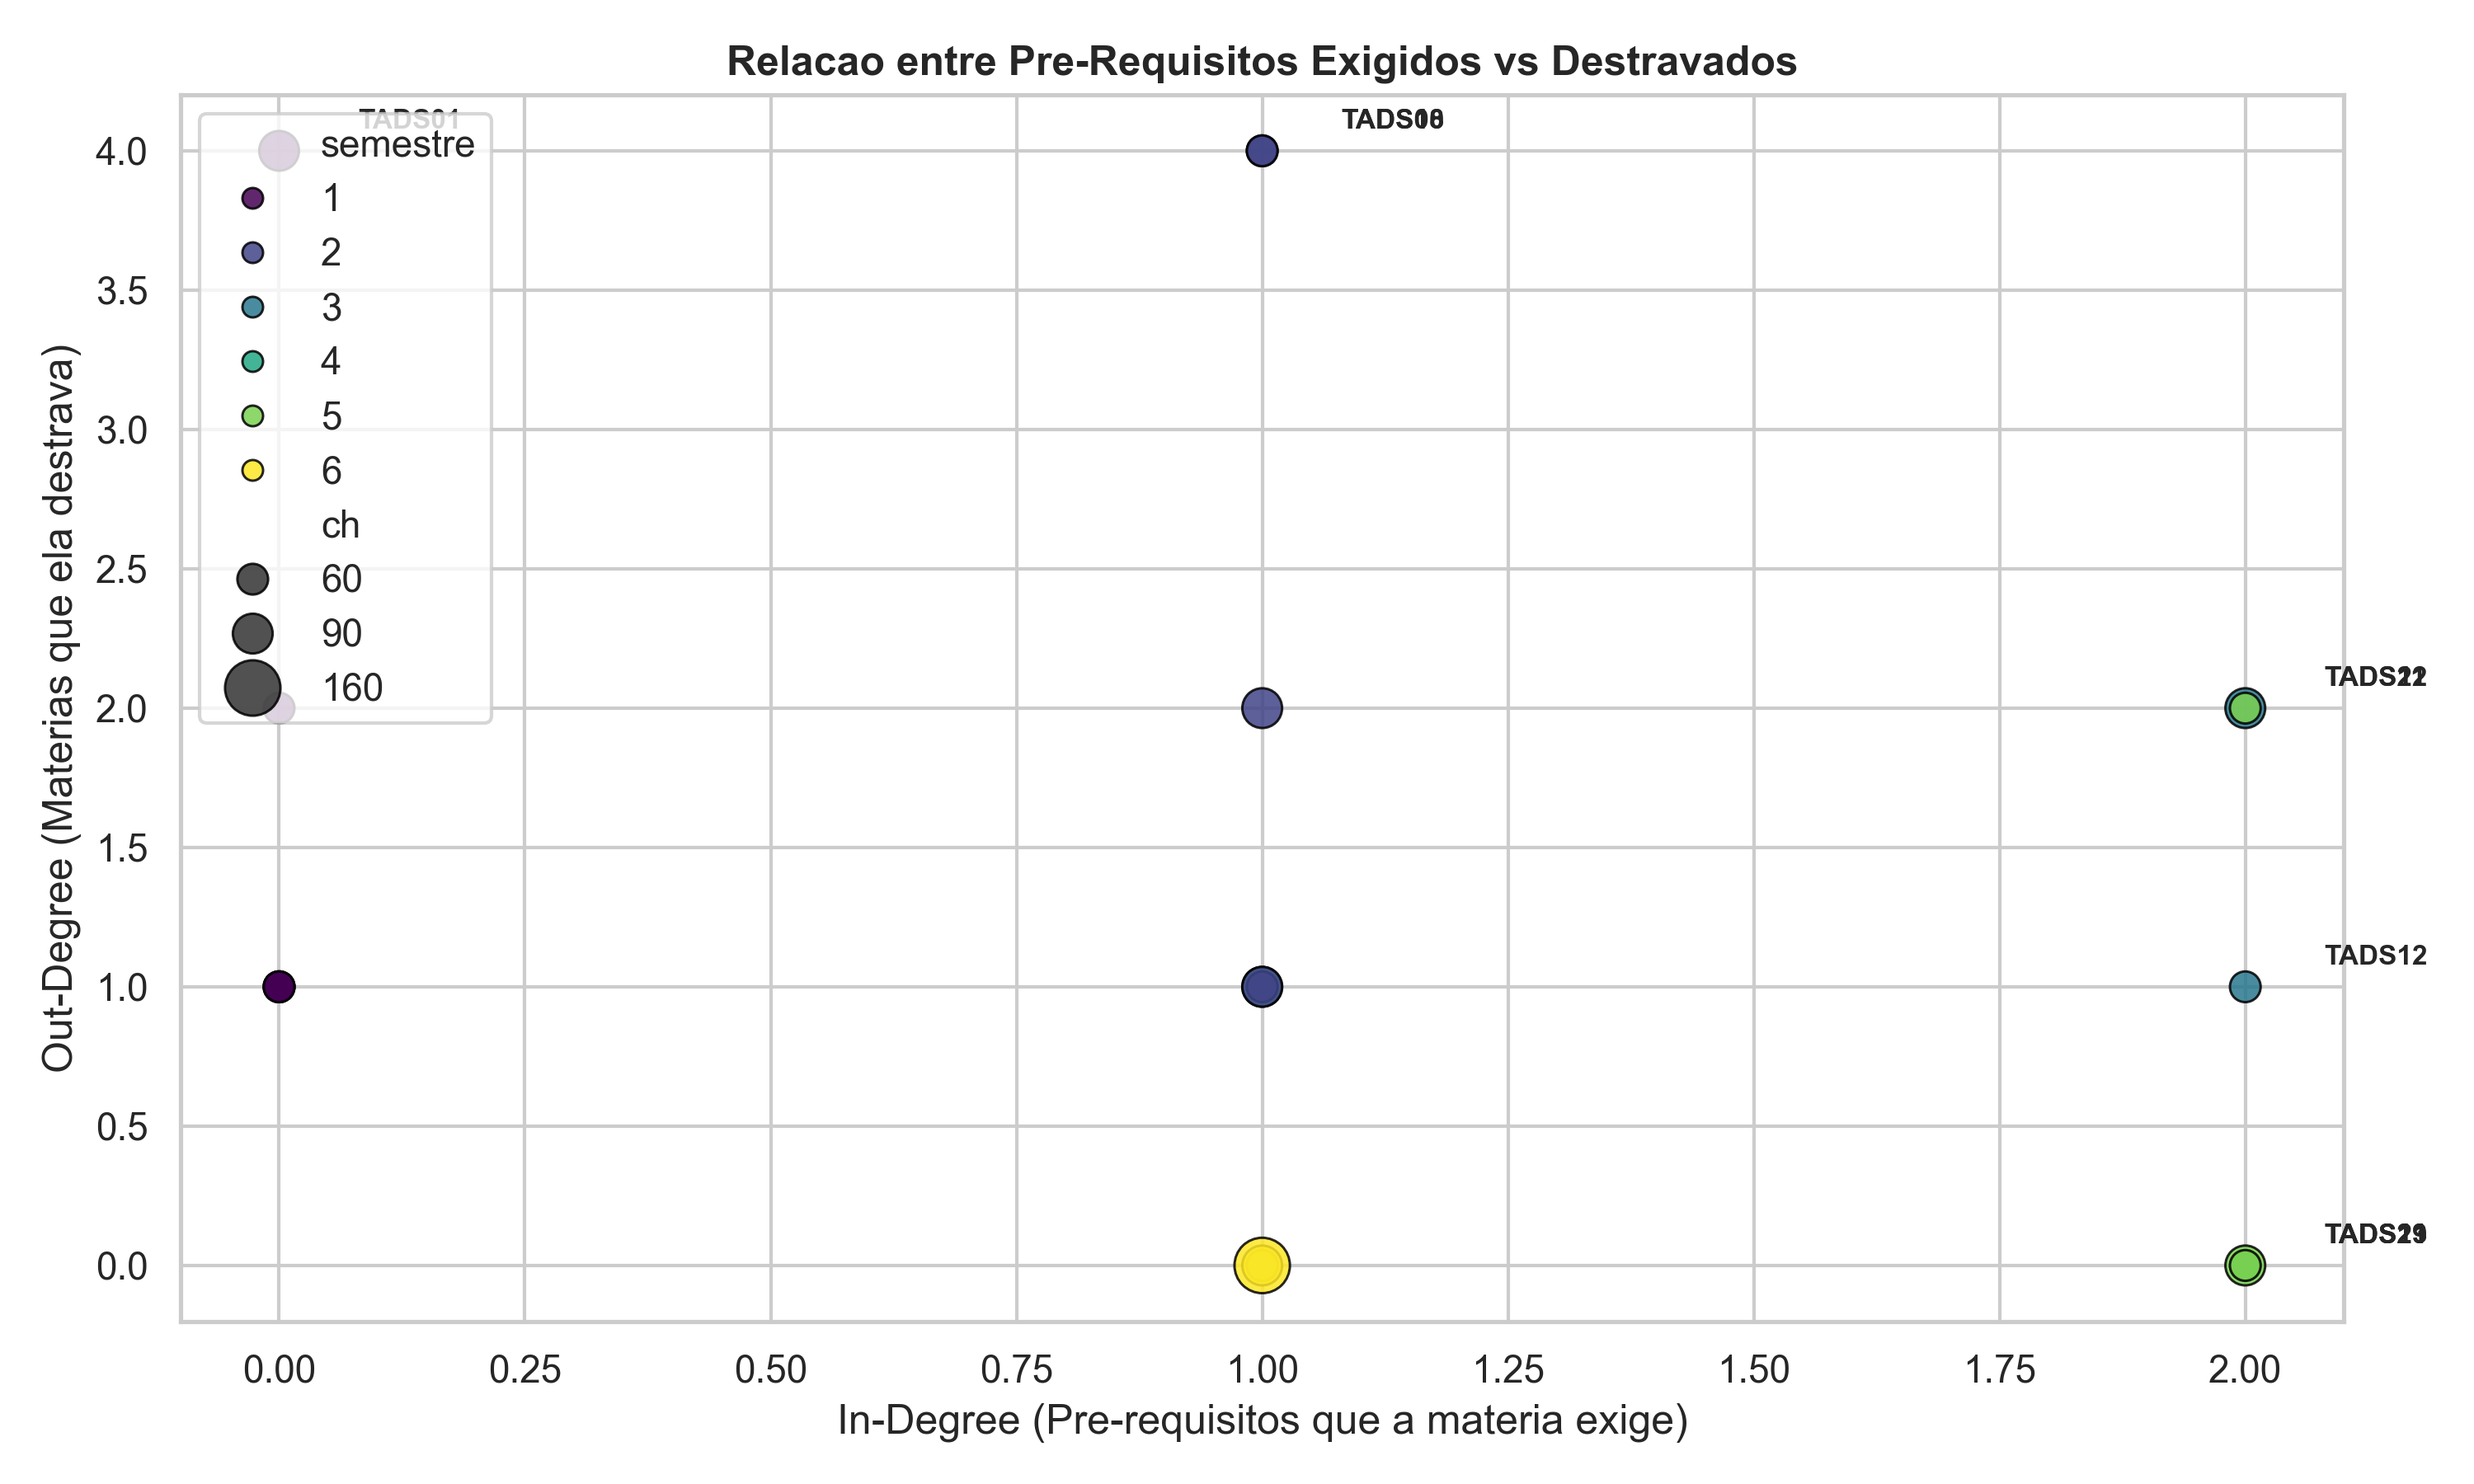
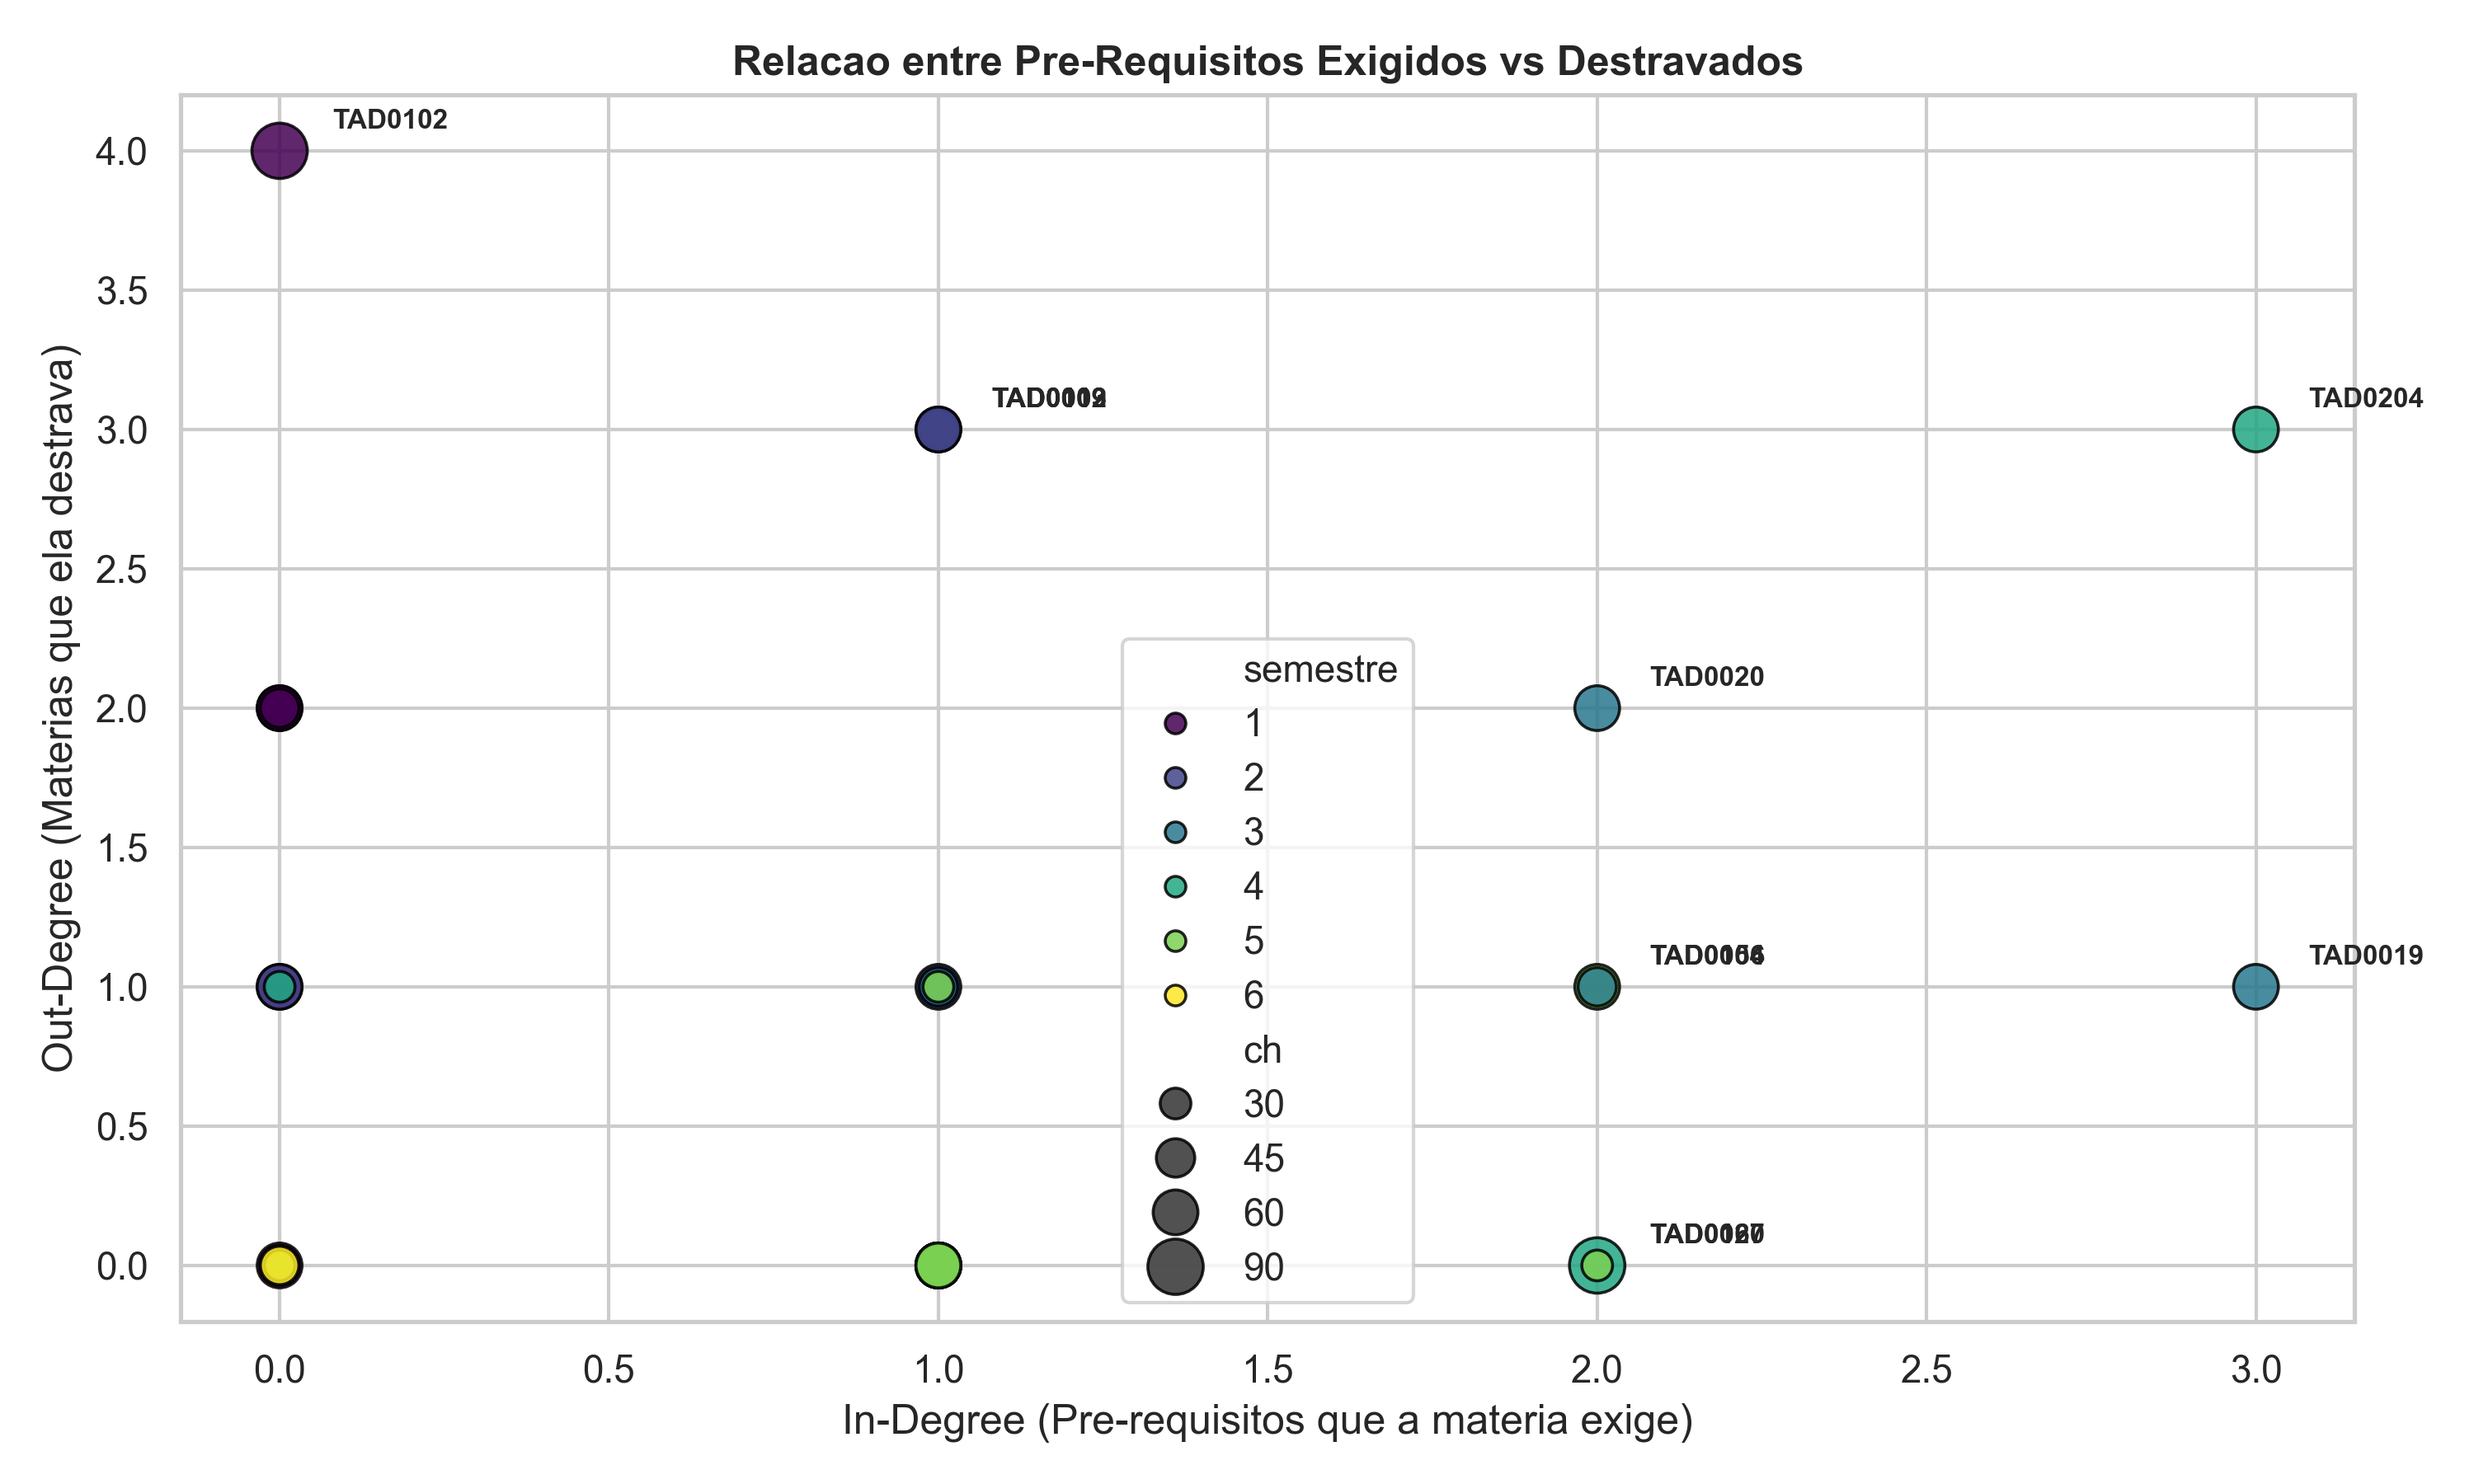
feat(data): matriz curricular oficial ementa TADS EAJ 2019.2 (Macaiba)

diff --git a/tests/test_metrics.py b/tests/test_metrics.py
@@ -35,8 +35,8 @@ class TestGraphMetrics(unittest.TestCase):
         self.assertIn("in_degree", df.columns)
         self.assertIn("out_degree", df.columns)
 
-        # TADS01 (Algoritmos) deve ser um dos maiores provedores de pré-requisitos
-        row_tads01 = df[df["codigo"] == "TADS01"].iloc[0]
+        # TAD0102 (Algoritmos e Programacao) deve ser um dos maiores provedores de pre-requisitos
+        row_tads01 = df[df["codigo"] == "TAD0102"].iloc[0]
         self.assertGreaterEqual(row_tads01["out_degree"], 3)
 
     def test_critical_path_detection(self):
@@ -45,20 +45,20 @@ class TestGraphMetrics(unittest.TestCase):
         self.assertGreater(len(critical), 0)
         length, path = critical[0]
         self.assertGreaterEqual(length, 4)
-        self.assertEqual(path[0], "TADS01")  # O caminho mais longo parte de Algoritmos
+        self.assertEqual(path[0], "TAD0102")  # O caminho mais longo parte de Algoritmos
 
     def test_k_hop_traversal(self):
         """Valida a simulação de travessias de múltiplos saltos."""
-        successors = get_k_hop_successors(self.G, "TADS01", k=3)
+        successors = get_k_hop_successors(self.G, "TAD0102", k=3)
 
         self.assertIn(1, successors)
         self.assertIn(2, successors)
         self.assertIn(3, successors)
         # Algoritmos tem pré-requisitos diretos no salto 1
-        self.assertIn("TADS06", successors[1])
-        self.assertIn("TADS07", successors[1])
-        # No salto 2, deve alcançar Web I via POO ou Banco de Dados
-        self.assertIn("TADS11", successors[2])
+        self.assertIn("TAD0009", successors[1])
+        self.assertIn("TAD0020", successors[1])
+        # No salto 2, deve alcançar FCD via Banco de Dados ou Estruturas de Dados
+        self.assertIn("TAD0204", successors[2])
 
 
 if __name__ == "__main__":

diff --git a/tests/test_dataset.py b/tests/test_dataset.py
@@ -28,9 +28,10 @@ class TestDatasetIntegrity(unittest.TestCase):
         self.assertTrue((df["ch"] > 0).all())
         # Semestres entre 1 e 6
         self.assertTrue(df["semestre"].between(1, 6).all())
-        # Deve conter componentes obrigatórios essenciais
-        self.assertIn("TADS01", df["codigo"].values)
-        self.assertIn("TADS08", df["codigo"].values)
+        # Deve conter componentes obrigatorios essenciais com codigos oficiais
+        self.assertIn("TAD0102", df["codigo"].values)
+        self.assertIn("TAD0103", df["codigo"].values)
+        self.assertIn("TAD0204", df["codigo"].values)
 
     def test_processed_prerequisitos_referential_integrity(self):
         """Valida ausência de arestas órfãs e ausência de autorrelacionamento."""

diff --git a/README.md b/README.md
@@ -162,13 +162,13 @@ python src/visualization/plot_graph.py
 ## 7. Resultados Analíticos da Validação
 
 1. **Análise Explícita (Cypher):**
-   - A consulta direta de pré-requisitos para *Algoritmos e Lógica de Programação* (TADS01) foi processada em latência inferior a 3 milissegundos.
-   - A travessia de múltiplos saltos (`*1..3`) recuperou com precisão todas as disciplinas da cadeia formativa de desenvolvimento sem a necessidade de recursão manual.
+   - A consulta direta de pré-requisitos para *Algoritmos e Programação* (TAD0102) foi processada em latência inferior a 3 milissegundos.
+   - A travessia de múltiplos saltos (`*1..3`) recuperou com precisão todas as disciplinas da cadeia formativa de desenvolvimento e dados sem a necessidade de recursão manual.
 2. **Análise Implícita (NetworkX):**
-   - **Centralidade de Intermediação (*Betweenness Centrality*):** As disciplinas *Desenvolvimento Web I* (TADS11) e *Projeto Integrador I* (TADS22) apresentaram os maiores coeficientes da rede ($0.0167$), atuando como pontes estruturantes indispensáveis para o avanço dos períodos formativos.
-   - **Grau de Saída (*Out-Degree*):** *Algoritmos e Lógica de Programação* (TADS01) e *Bancos de Dados* (TADS08) são os maiores provedores de dependências, destravando diretamente 4 componentes cada.
-   - **Caminho Crítico de Formatura:** O caminho de maior extensão em saltos no DAG curricular abrange uma sequência ininterrupta de 5 períodos:
-     $$\text{Algoritmos} \rightarrow \text{POO} \rightarrow \text{Desenvolvimento Web I} \rightarrow \text{Desenvolvimento Web II} \rightarrow \text{Dispositivos Móveis}$$
+   - **Centralidade de Intermediação (*Betweenness Centrality*):** A própria disciplina ministrada pelo docente, *Fundamentos e Técnicas em Ciência de Dados* (TAD0204), desponta como o principal nó estruturante e gargalo de intermediação da rede ($0.0128$), seguida por *Estruturas de Dados* (TAD0020) e *Projetos Aplicados I* (TAD0156).
+   - **Grau de Saída (*Out-Degree*):** *Algoritmos e Programação* (TAD0102) lidera como a maior provedora de pré-requisitos do curso (4 dependências diretas), seguida por *Processo de Desenvolvimento de Software* (TAD0012) e *Fundamentos e Técnicas em Ciência de Dados* (TAD0204).
+   - **Caminho Crítico de Formatura:** O caminho de maior extensão em saltos no DAG curricular abrange uma sequência obrigatória de 5 períodos letivos:
+     $$\text{Algoritmos} \rightarrow \text{POO} \rightarrow \text{Análise e Projeto OO} \rightarrow \text{Arquitetura de Software} \rightarrow \text{Projetos Aplicados I} \rightarrow \text{Projetos Aplicados II}$$
 
 ---
 

diff --git a/docs/slides_roteiro.md b/docs/slides_roteiro.md
@@ -96,9 +96,9 @@
 * **Título:** Métricas de Centralidade e Desempenho Computacional
 * **Elementos Visuais:** Gráficos analíticos gerados no projeto: ranking de *Betweenness Centrality*, dispersão de graus (entrada vs. saída) e visualização estratificada do DAG com o caminho crítico destacado.
 * **Pontos da Fala:**
-  - Grau de saída (*Out-Degree*): demonstração de *Algoritmos e Lógica de Programação* (TADS01) e *Bancos de Dados* (TADS08) como os principais provedores da base.
-  - Centralidade de Intermediação (*Betweenness*): demonstração matemática de que *Desenvolvimento Web I* e *Projeto Integrador I* são as disciplinas-gargalo da matriz curricular.
-  - Caminho Crítico de Formatura: cadeia contínua de 5 períodos letivos ininterruptos.
+  - Grau de saída (*Out-Degree*): demonstração de *Algoritmos e Programação* (TAD0102) como a maior provedora da base com 4 dependências diretas.
+  - Centralidade de Intermediação (*Betweenness*): demonstração matemática de que a própria disciplina da matéria, *Fundamentos e Técnicas em Ciência de Dados* (TAD0204), atua como o principal nó estruturante e articulador da formação acadêmica na matriz real de TADS/EAJ.
+  - Caminho Crítico de Formatura: cadeia contínua de 5 períodos letivos ininterruptos de Algoritmos até Projetos Aplicados II.
   - Desempenho computacional: execução das travessias em menos de 8 milissegundos localmente e 35 milissegundos via Neo4j AuraDB.
 
 #### Diapositivo 09: Conclusões e Entregas do Projeto (12:45 - 14:00)
